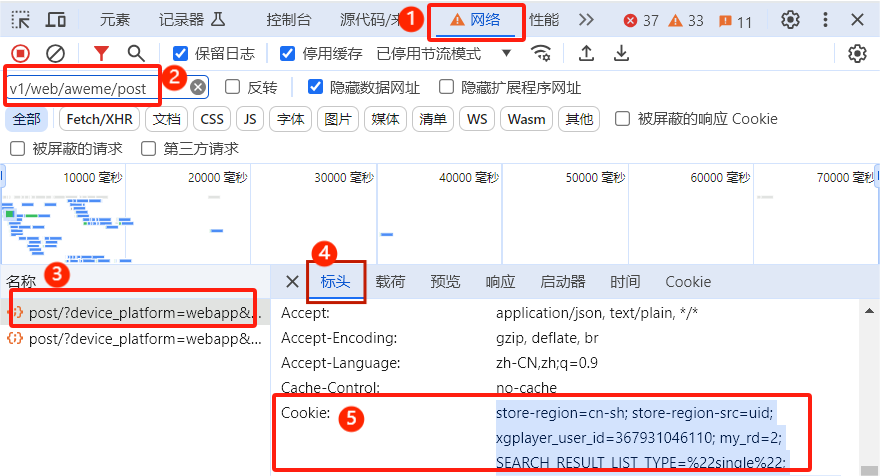
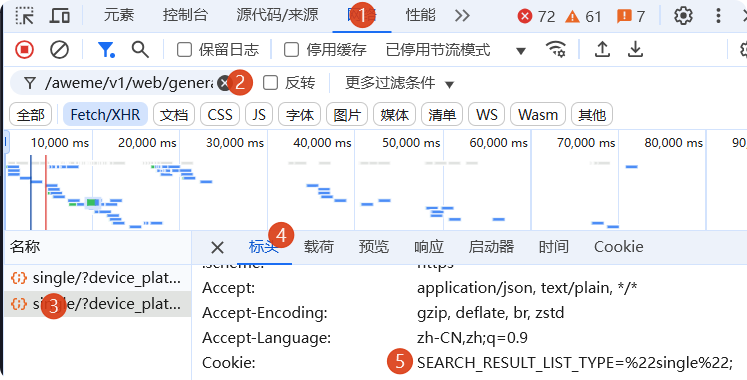
docs: 更新使用文档中的Cookie获取方式，推荐手动获取

diff --git a/USAGE_VI.md b/USAGE_VI.md
@@ -15,7 +15,7 @@
 
 Cookie là thông tin xác thực cần thiết để lấy dữ liệu.
 
-### Cách 1: Đăng nhập để lấy (Khuyến nghị)
+### Cách 1: Đăng nhập để lấy (Có thể không hoạt động)
 
 > 💡 Chỉ chế độ GUI
 
@@ -25,12 +25,12 @@ Cookie là thông tin xác thực cần thiết để lấy dữ liệu.
 4. Cookie sẽ được tự động điền sau khi đăng nhập thành công
 5. Nhấp "Lưu cài đặt"
 
-### Cách 2: Thủ công
+### Cách 2: Thủ công (Khuyến nghị)
 
-1. Truy cập https://www.douyin.com và đăng nhập
+1. Truy cập `https://www.douyin.com/search/deepseek` và đăng nhập
 2. Nhấn `F12` để mở công cụ nhà phát triển
 3. Chuyển sang tab `Network`, làm mới trang
-4. Nhập `aweme` vào bộ lọc, nhấp vào bất kỳ yêu cầu nào
+4. Nhập `/aweme/v1/web/general/search/single` vào bộ lọc, nhấp vào bất kỳ yêu cầu nào
 5. Tìm trường `Cookie:` trong `Request Headers`, sao chép toàn bộ nội dung
 6. Dán và lưu trong cài đặt ứng dụng
 
@@ -38,7 +38,7 @@ Cookie là thông tin xác thực cần thiết để lấy dữ liệu.
 
 ![Sơ đồ](./docs/images/image.png)
 
-Cookie hợp lệ phải chứa: `sessionid`, `ttwid`, `__ac_nonce`
+Cookie hợp lệ phải chứa: `sessionid`, `ttwid`
 
 ---
 

diff --git a/USAGE.md b/USAGE.md
@@ -15,7 +15,7 @@
 
 Cookie 是获取数据的必要凭证。
 
-### 方式一：登录获取（推荐）
+### 方式一：登录获取（不一定可用）
 
 > 💡 仅 GUI 模式支持
 
@@ -25,12 +25,12 @@ Cookie 是获取数据的必要凭证。
 4. 登录成功后 Cookie 会自动填入
 5. 点击「保存配置」
 
-### 方式二：手动获取
+### 方式二：手动获取（推荐）
 
-1. 访问 https://www.douyin.com 并登录
+1. 访问 `https://www.douyin.com/search/deepseek` 并登录
 2. 按 `F12` 打开开发者工具
 3. 切换到 `Network` 标签，刷新页面
-4. 过滤器输入 `aweme`，点击任意请求
+4. 过滤器输入 `/aweme/v1/web/general/search/single`，点击任意请求
 5. 在 `Request Headers` 中找到 `Cookie:` 字段，复制完整内容
 6. 在应用设置中粘贴并保存
 
@@ -38,7 +38,7 @@ Cookie 是获取数据的必要凭证。
 
 ![示意图](./docs/images/image.png)
 
-有效 Cookie 应包含：`sessionid`、`ttwid`、`__ac_nonce`
+有效 Cookie 应包含：`sessionid`、`ttwid`
 
 ---
 

diff --git a/USAGE_EN.md b/USAGE_EN.md
@@ -25,12 +25,12 @@ Cookie is the necessary credential for obtaining data.
 4. Cookie will be automatically filled after successful login
 5. Click "Save Settings"
 
-### Method 2: Manual
+### Method 2: Manual (Recommended)
 
-1. Visit https://www.douyin.com and log in
+1. Visit `https://www.douyin.com/search/deepseek` and log in
 2. Press `F12` to open developer tools
 3. Switch to `Network` tab, refresh the page
-4. Type `aweme` in filter, click any request
+4. Type `/aweme/v1/web/general/search/single` in filter, click any request
 5. Find `Cookie:` field in `Request Headers`, copy the full content
 6. Paste and save in application settings
 
@@ -38,7 +38,7 @@ Cookie is the necessary credential for obtaining data.
 
 ![Schematic](./docs/images/image.png)
 
-Valid Cookie should contain: `sessionid`, `ttwid`, `__ac_nonce`
+Valid Cookie should contain: `sessionid`, `ttwid`
 
 ---
 
